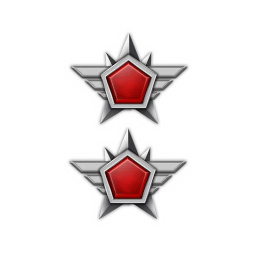
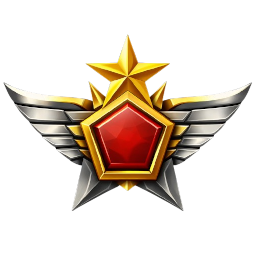
asd

diff --git a/index.html b/index.html
@@ -5903,7 +5903,7 @@ async function carregarConversasPrivadas() {
 
 setInterval(() => {
     if (!window.location.href.toLowerCase().includes('file://')) { // 
-    if (localStorage.getItem('usuarioLogado') && localStorage.getItem('token') && localStorage.getItem('userRank') !== '31') {
+    if (localStorage.getItem('usuarioLogado') && localStorage.getItem('token') && localStorage.getItem('userRank') !== '32') {
         if (localStorage.getItem('item-premium-xp')){
             awardXp(200)
             return;
@@ -6172,7 +6172,8 @@ async function atualizarChatAtivo() {
             { rank: 28, name: "Marechal de Campo", xpRequired: 1122000 },
             { rank: 29, name: "Comandante", xpRequired: 1255000 },
             { rank: 30, name: "Generalissimo", xpRequired: 1400000 },
-            { rank: 31, name: "Lenda", xpRequired: 2000000 }
+            { rank: 31, name: "Lenda", xpRequired: 2000000 },
+            { rank: 32, name: "Mestre de Honra", xpRequired: 10000000 }
         ];
 
         async function redeemCode() {
@@ -6246,7 +6247,7 @@ async function atualizarChatAtivo() {
                 feedback.style.display = "block";
                 input.value = "";
 
-                if (localStorage.getItem('usuarioLogado') && localStorage.getItem('userRank') !== '31') {
+                if (localStorage.getItem('usuarioLogado') && localStorage.getItem('userRank') !== '32') {
                     if (localStorage.getItem('item-premium-xp')) {
                         awardXp(1000);
                     } else {
@@ -6298,7 +6299,7 @@ async function atualizarChatAtivo() {
     // Ganhar gemas ao desbloquear um jogo secreto
     await addCoins(100);
 
-    if (localStorage.getItem('usuarioLogado') && localStorage.getItem('token') && localStorage.getItem('userRank') !== '31') {
+    if (localStorage.getItem('usuarioLogado') && localStorage.getItem('token') && localStorage.getItem('userRank') !== '32') {
         if (localStorage.getItem('item-premium-xp')) {
             awardXp(1000);
         } else {
@@ -6989,7 +6990,7 @@ function conquistaAnimacao(tipo) {
                         localStorage.setItem('userXp', data.xp || 0);
                         localStorage.setItem('premiumXp', data.premium ? 'true' : 'false');
                         
-                        console.log(`[SYNC] Rank: ${data.rank}/31, XP: ${data.xp}, Premium: ${data.premium}`);
+                        console.log(`[SYNC] Rank: ${data.rank}/32, XP: ${data.xp}, Premium: ${data.premium}`);
                         updateRankDisplay();
                     }
                 }
@@ -7055,7 +7056,7 @@ function conquistaAnimacao(tipo) {
                 const data = await res.json();
                 
                 if (res.ok && data.ok) {
-                    console.log(`[XP] ✅ ${amount} XP adicionado! Rank: ${data.rank}/31`);
+                    console.log(`[XP] ✅ ${amount} XP adicionado! Rank: ${data.rank}/32`);
                     // Atualizar localStorage com a resposta do servidor
                     if (data.rank !== undefined) {
                         localStorage.setItem('userRank', data.rank);
@@ -7095,7 +7096,7 @@ function conquistaAnimacao(tipo) {
             
             // Verificar e promover automaticamente se XP >= necessário
             let currentRankInfo = RANKS_TABLE.find(r => r.rank === rank);
-            while (rank < 31 && currentRankInfo) {
+            while (rank < 32 && currentRankInfo) {
                 const nextRankInfo = RANKS_TABLE.find(r => r.rank === rank + 1);
                 if (nextRankInfo && xp >= nextRankInfo.xpRequired) {
                     rank++;
@@ -7134,7 +7135,7 @@ function conquistaAnimacao(tipo) {
                         </div>
                         <div class="rank-info">
                             <div class="rank-title-admin">
-                                ${rankName} • Rank ${rank}/31
+                                ${rankName} • Rank ${rank}/32
                                 ${hasPremium ? '• Dono' : ''}
                             </div>
                             <div class="xp-bar-container" style="background: rgb(49 8 47);">
@@ -7153,7 +7154,7 @@ function conquistaAnimacao(tipo) {
                         </div>
                         <div class="rank-info">
                             <div class="rank-title">
-                                ${rankName} • Rank ${rank}/31
+                                ${rankName} • Rank ${rank}/32
                                 ${hasPremium ? '👑 PREMIUM' : ''}
                             </div>
                             <div class="xp-bar-container" style="background: rgb(46 35 8);">
